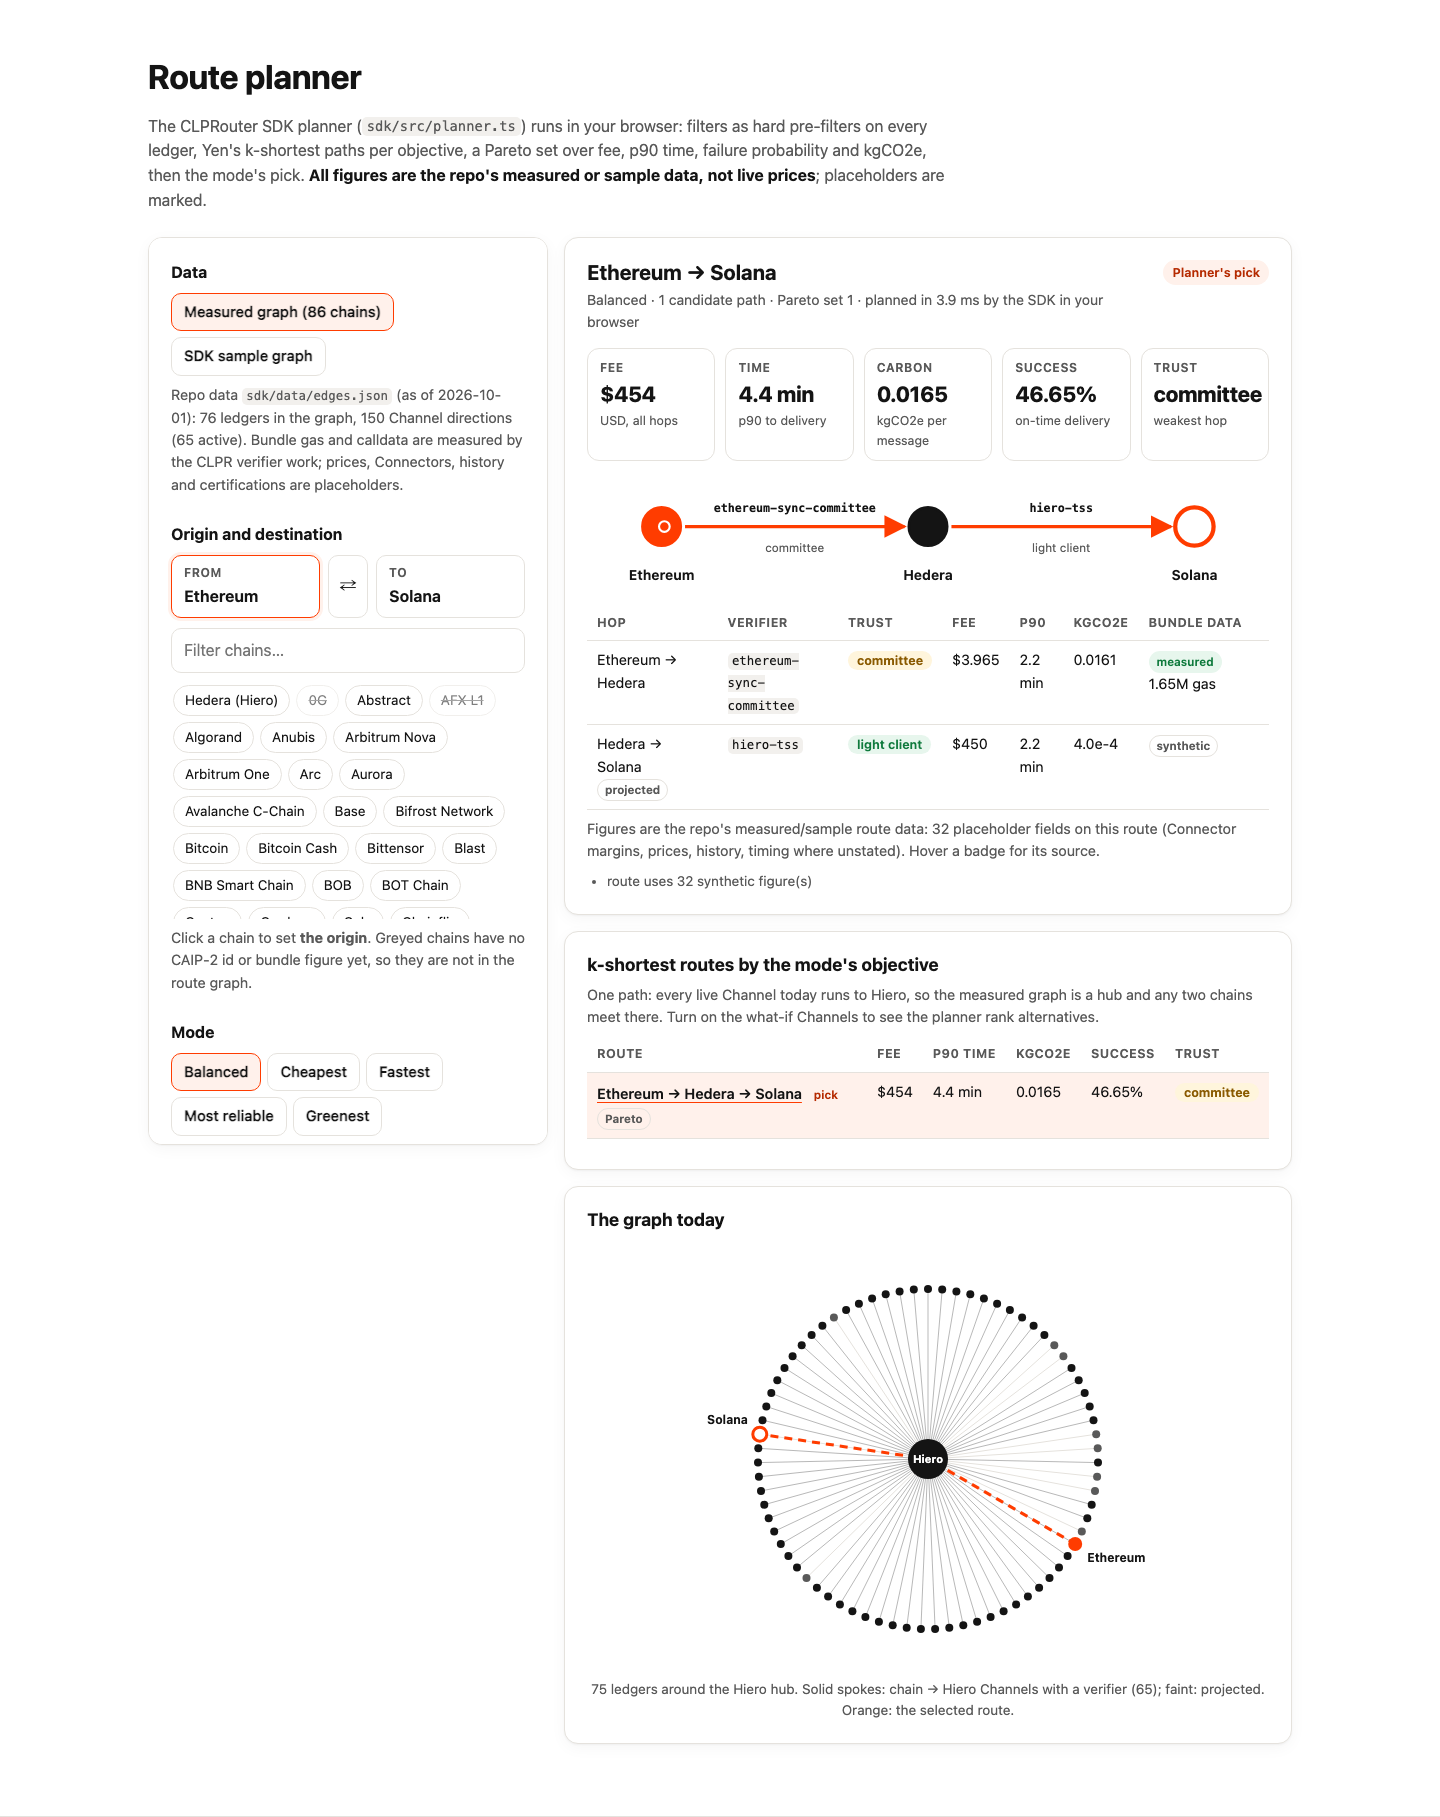
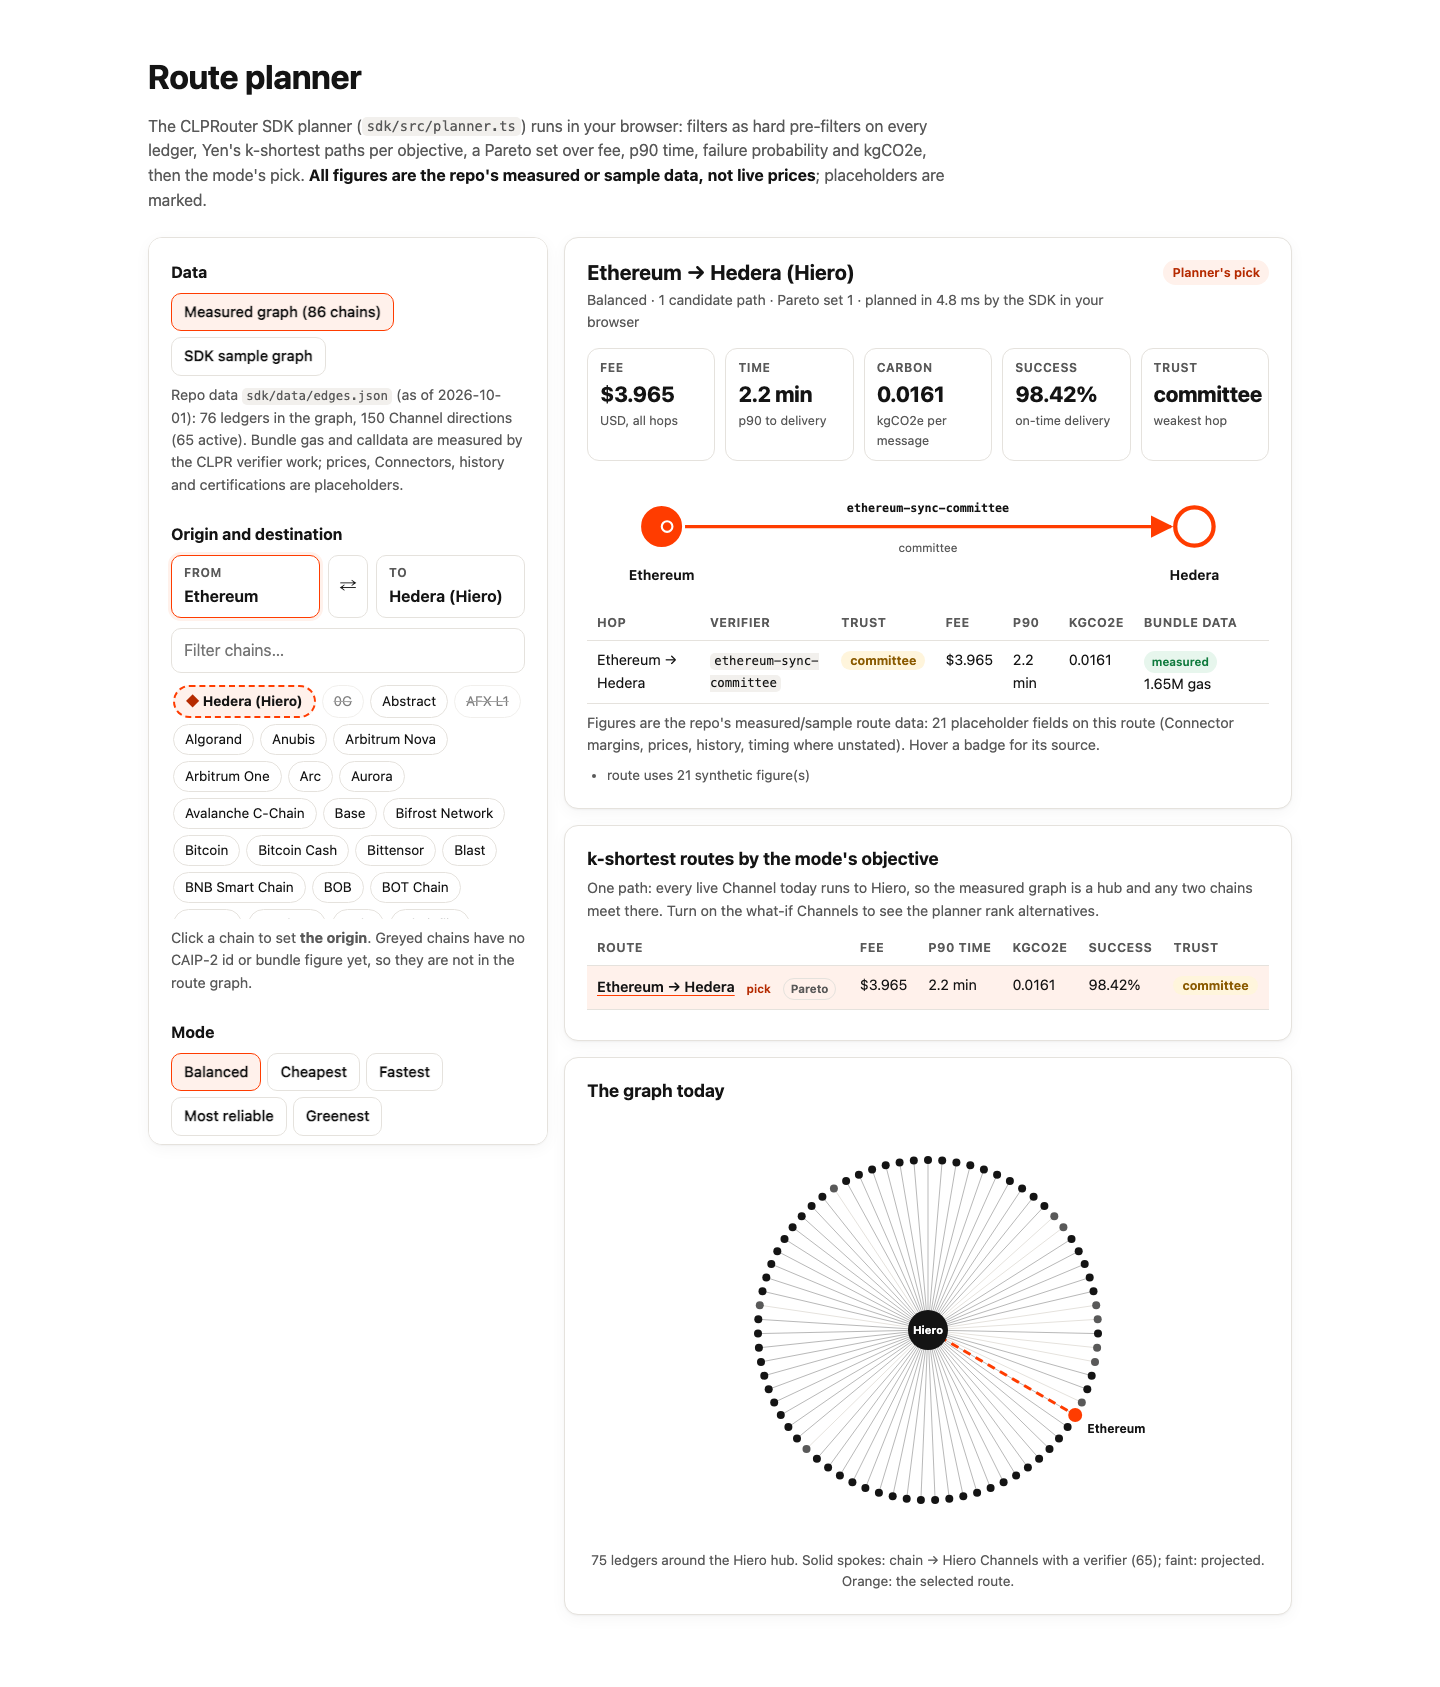
fix(site): read the v2 Channel and settle deployment; default route Ethereum → Hedera
- Explorer: the Channel and order-book panels read the v2 Channel (0x6446…c05d) and the v2 settle
  contracts (order book on Hedera, deposit and delivery on Sepolia, settle CLPR connector on both).
  The delivered route stays, labelled as delivered over the first Channel; the v1 settle contracts
  stay in the contracts table, marked superseded.
- Planner: defaults to Ethereum → Hedera, the measured route delivered on testnet. Ethereum → Solana
  is one click away as an example, still tagged projected.
- Build inlines the stylesheet into index.html, so first paint needs no extra request.
- Click-through checks the v2 panels, the superseded labels and the projected tag; screenshots refreshed.

Changed region(s): [[0.0938, 0.0308, 0.875, 0.6781], [0.4062, 0.6781, 0.875, 0.9555]]

diff --git a/site/src/explorer.ts b/site/src/explorer.ts
@@ -13,6 +13,7 @@ import {
 import { ORDER_BOOK_ABI, ROUTE_APP_ABI, ROUTER_ABI, SERVICE_ABI } from "./abi";
 import {
   CHANNEL_ID,
+  CHANNEL_V1_ID,
   CONTRACTS,
   NETS,
   ORDER_BOOK,
@@ -23,6 +24,7 @@ import {
   ROUTER,
   SEPOLIA_LEDGER_LABEL,
   SERVICE,
+  SETTLE_CLPR_CONNECTOR,
   SETTLE_DELIVERY,
   SETTLE_DEPOSIT,
   TEST_CONNECTOR,
@@ -71,9 +73,10 @@ export function initExplorer(root: HTMLElement): void {
   root.innerHTML = `
     <div class="ex-grid">
       <section class="card" aria-labelledby="ex-net-h"><h3 class="card-title" id="ex-net-h">Endpoints</h3><div id="ex-net"></div></section>
-      <section class="card" aria-labelledby="ex-ch-h"><h3 class="card-title" id="ex-ch-h">The Channel <code class="muted">${shortHex(CHANNEL_ID)}</code></h3><div id="ex-ch"></div></section>
-      <section class="card" aria-labelledby="ex-rt-h"><h3 class="card-title" id="ex-rt-h">Route <code class="muted">${shortHex(ROUTE_ID, 4)}</code>: Sepolia → Hedera</h3><div id="ex-rt"></div></section>
-      <section class="card" aria-labelledby="ex-ob-h"><h3 class="card-title" id="ex-ob-h">Settle on Hedera: order book</h3><div id="ex-ob"></div></section>
+      <section class="card" aria-labelledby="ex-ch-h"><h3 class="card-title" id="ex-ch-h">The Channel (v2) <code class="muted">${shortHex(CHANNEL_ID)}</code></h3><div id="ex-ch"></div></section>
+      <section class="card" aria-labelledby="ex-rt-h"><h3 class="card-title" id="ex-rt-h">Route <code class="muted">${shortHex(ROUTE_ID, 4)}</code>: Sepolia → Hedera</h3>
+        <p class="hint">Delivered over the first Channel <code>${shortHex(CHANNEL_V1_ID)}</code>, before the v2 Channel replaced it.</p><div id="ex-rt"></div></section>
+      <section class="card" aria-labelledby="ex-ob-h"><h3 class="card-title" id="ex-ob-h">Settle on Hedera: order book (v2)</h3><div id="ex-ob"></div></section>
     </div>
     <section class="card" aria-labelledby="ex-ct-h"><h3 class="card-title" id="ex-ct-h">Canonical contracts</h3>
       <p class="hint">Code read live with <code>eth_getCode</code>; where the deployment record has a runtime code hash, the hash is checked too.
@@ -136,7 +139,7 @@ async function loadChannel(): Promise<string> {
   const show = (r: PromiseSettledResult<string>, net: Net) =>
     r.status === "fulfilled" ? r.value : `<div class="side"><div class="side-h">${NETS[net].name}</div><p class="error">${esc((r.reason as Error).message)}</p></div>`;
   return `<div class="sides">${show(s, "sepolia")}${show(h, "hedera")}</div>
-    <p class="hint">One CLPR Channel joins exactly two ledgers. Read live with <code>getChannel</code> on the CLPR Service ${addrLink("sepolia", SERVICE)}.</p>`;
+    <p class="hint">One CLPR Channel joins exactly two ledgers. v2 replaced the first Channel <code>${shortHex(CHANNEL_V1_ID)}</code> (superseded) with a staged committee rotation; settle runs on v2. Read live with <code>getChannel</code> on the CLPR Service ${addrLink("sepolia", SERVICE)}.</p>`;
 }
 
 interface OriginRoute {
@@ -244,7 +247,7 @@ async function loadOrderBook(): Promise<string> {
     ${
       orders.length
         ? `<div class="table-wrap"><table><thead><tr><th scope="col">Order</th><th scope="col">Status</th><th scope="col">Owed on default</th><th scope="col">Opened</th></tr></thead><tbody>${orderRows}</tbody></table></div>`
-        : `<p class="hint"><strong>Orders: none yet.</strong> The book is deployed and a Connector is bonded; the first order opens once the Sepolia source is active and the settle CLPR connector is registered on Sepolia.</p>`
+        : `<p class="hint"><strong>Orders: none yet.</strong> The book is deployed and a Connector is bonded; the settle CLPR connector is registered on the v2 Channel on both networks, and the first order can open once the Sepolia source is active.</p>`
     }`;
 }
 
@@ -265,7 +268,7 @@ async function loadContracts(): Promise<string> {
         }
       };
       const [s, h] = await Promise.all([one("sepolia", c.sepolia), one("hedera", c.hedera)]);
-      return `<tr><th scope="row"><div>${esc(c.name)}</div><div class="muted small">${esc(c.group)}: ${esc(c.what)}</div></th>${s}${h}</tr>`;
+      return `<tr${c.superseded ? ' class="superseded"' : ""}><th scope="row"><div>${esc(c.name)}${c.superseded ? ` <span class="badge sm" title="superseded ${esc(c.superseded)}">superseded</span>` : ""}</div><div class="muted small">${esc(c.group)}: ${esc(c.what)}</div></th>${s}${h}</tr>`;
     }),
   );
   return `<div class="table-wrap"><table class="contracts"><thead><tr><th scope="col">Contract</th><th scope="col">Sepolia (Etherscan)</th><th scope="col">Hedera testnet (HashScan)</th></tr></thead><tbody>${cells.join("")}</tbody></table></div>`;
@@ -347,7 +350,7 @@ function summary(d: Decoded): string {
 
 async function loadEvents(): Promise<string> {
   const [sep, hr, hs, ho] = await Promise.allSettled([
-    sepoliaLogs([ROUTER.sepolia, SERVICE, SETTLE_DEPOSIT, SETTLE_DELIVERY]),
+    sepoliaLogs([ROUTER.sepolia, SERVICE, SETTLE_DEPOSIT, SETTLE_DELIVERY, SETTLE_CLPR_CONNECTOR]),
     hederaLogs(ROUTER.hedera, 25),
     hederaLogs(SERVICE, 50),
     hederaLogs(ORDER_BOOK, 25),

diff --git a/site/src/config.ts b/site/src/config.ts
@@ -53,6 +53,8 @@ export interface ContractRow {
   hedera?: Hex;
   /** Runtime code hash recorded at deployment, if any (same on both networks unless noted). */
   codeHash?: Hex;
+  /** Replaced by a later deployment; kept in the table for the record. */
+  superseded?: string;
 }
 
 export const SERVICE: Hex = "0xa6db474e3047c3d43b10a4ff7abad547d89982b9";
@@ -60,15 +62,20 @@ export const ROUTER: Record<Net, Hex> = {
   sepolia: "0x3Ec8a28f6AD20FE1070819f56B29be120700A653",
   hedera: "0xF398F961088af7aF74bff8fc409a535023913E5F",
 };
[1 lines of base64/hex data omitted]
+/** The live Channel (v2, staged committee rotation). */
[1 lines of base64/hex data omitted]
+/** The first Channel: the delivered route ran over it; superseded by v2. */
[1 lines of base64/hex data omitted]
 export const ROUTE_ID: Hex = "0x03c51452a41f4867d5bd8f5774baa110";
[2 lines of base64/hex data omitted]
 export const ROUTE_APP: Hex = "0xDbB0EbcBf8fa0cE4886fbe8Ae0C24C6D68B8bC69";
 
-export const ORDER_BOOK: Hex = "0xB7C875E6EB4a9D470BBccFecbA6256342676e895";
-export const SETTLE_DEPOSIT: Hex = "0x249f83524D0827840237e751981B804D99bB5bD6";
-export const SETTLE_DELIVERY: Hex = "0x5e7dbA624AFbcb13693BB17d9021Be16Da96cDB8";
+// Settle on Hedera v2 (on the v2 Channel).
+export const ORDER_BOOK: Hex = "0x28c14e4BAd929e27902149674CCe79b34E5b8B1f";
+export const SETTLE_DEPOSIT: Hex = "0x86ED95936E516742cC4d54657f66831775282875";
+export const SETTLE_DELIVERY: Hex = "0xf3c36ceDD119a0BfEdfA9F61C82A4F289046CB24";
+export const SETTLE_CLPR_CONNECTOR: Hex = "0x7DBAA36A39765668d7aB18AA08Db0a7Fe1Da7227";
 export const TEST_CONNECTOR: Hex = "0x316323692104293b58366e6Bc66a796B919108E7";
 export const SEPOLIA_LEDGER_LABEL = "eip155:11155111";
 
@@ -121,29 +128,62 @@ export const CONTRACTS: ContractRow[] = [
   {
     name: "SettleOrderBook",
     group: "Settle on Hedera",
-    what: "Connectors, bonds, orders and defaults, on Hedera",
+    what: "Connectors, bonds, orders and defaults, on Hedera (v2 Channel)",
     hedera: ORDER_BOOK,
[2 lines of base64/hex data omitted]
   },
   {
     name: "SettleDeposit",
     group: "Settle on Hedera",
-    what: "User pays the Connector; DEPOSIT message to Hedera",
+    what: "User pays the Connector; DEPOSIT message to Hedera (v2 Channel)",
     sepolia: SETTLE_DEPOSIT,
[2 lines of base64/hex data omitted]
   },
   {
     name: "SettleDelivery",
     group: "Settle on Hedera",
-    what: "Connector pays the recipient; DELIVERY message to Hedera",
+    what: "Connector pays the recipient; DELIVERY message to Hedera (v2 Channel)",
     sepolia: SETTLE_DELIVERY,
[2 lines of base64/hex data omitted]
   },
   {
     name: "SettleTestnetConnector",
     group: "Settle on Hedera",
-    what: "CLPR connector for the settle messages",
+    what: "CLPR connector for the settle messages, registered on the v2 Channel on both networks",
+    sepolia: SETTLE_CLPR_CONNECTOR,
+    hedera: SETTLE_CLPR_CONNECTOR,
[1 lines of base64/hex data omitted]
+  },
+  {
+    name: "SettleOrderBook (v1)",
+    group: "Settle on Hedera",
+    what: "First order book, on the first Channel",
+    hedera: "0xB7C875E6EB4a9D470BBccFecbA6256342676e895",
[1 lines of base64/hex data omitted]
+    superseded: "by the v2 order book",
+  },
+  {
+    name: "SettleDeposit (v1)",
+    group: "Settle on Hedera",
+    what: "First deposit contract, bound to the first Channel",
+    sepolia: "0x249f83524D0827840237e751981B804D99bB5bD6",
[1 lines of base64/hex data omitted]
+    superseded: "by the v2 deposit contract",
+  },
+  {
+    name: "SettleDelivery (v1)",
+    group: "Settle on Hedera",
+    what: "First delivery contract, bound to the first Channel",
+    sepolia: "0x5e7dbA624AFbcb13693BB17d9021Be16Da96cDB8",
[1 lines of base64/hex data omitted]
+    superseded: "by the v2 delivery contract",
+  },
+  {
+    name: "SettleTestnetConnector (v1)",
+    group: "Settle on Hedera",
+    what: "First settle CLPR connector, Hedera only",
     hedera: "0x187Ec9e724615974F5bdbf63eA4E181B9B2381F4",
[1 lines of base64/hex data omitted]
+    superseded: "by the v2 settle CLPR connector",
   },
 ];

diff --git a/site/src/planner.ts b/site/src/planner.ts
@@ -49,7 +49,8 @@ const WHATIF_SET = [
   "xrpl:0",
 ];
 const PRESETS: Array<{ label: string; origin: string; dest: string; mode: Mode; filters?: Filters; whatIf?: boolean }> = [
-  { label: "Ethereum → Solana", origin: "eip155:1", dest: "solana:5eykt4UsFv8P8NJdTREpY1vzqKqZKvdp", mode: "balanced" },
+  { label: "Ethereum → Hedera (measured)", origin: "eip155:1", dest: "hedera:mainnet", mode: "balanced" },
+  { label: "Ethereum → Solana (projected)", origin: "eip155:1", dest: "solana:5eykt4UsFv8P8NJdTREpY1vzqKqZKvdp", mode: "balanced" },
   { label: "Stellar → XRP Ledger, ISO 20022", origin: "stellar:pubnet", dest: "xrpl:0", mode: "fastest", filters: { iso20022: true } },
   { label: "Bitcoin → Stellar, greenest + Energy", origin: "bip122:000000000019d6689c085ae165831e93", dest: "stellar:pubnet", mode: "greenest", filters: { energy: true } },
   { label: "Base → Stellar, what-if Channels", origin: "eip155:8453", dest: "stellar:pubnet", mode: "cheapest", whatIf: true },
@@ -77,7 +78,7 @@ interface State {
 const state: State = {
   dataset: "measured",
   origin: "eip155:1",
-  dest: "solana:5eykt4UsFv8P8NJdTREpY1vzqKqZKvdp",
+  dest: HUB,
   picking: "origin",
   mode: "balanced",
   iso: false,

diff --git a/site/src/styles.css b/site/src/styles.css
@@ -297,3 +297,4 @@ input[type="checkbox"], input[type="radio"] { accent-color: var(--accent); width
 
 .foot { border-top: 1px solid var(--line); padding: 28px 0 40px; color: var(--muted); font-size: 0.88rem; }
 .foot-in p { margin: 4px 0; }
+.contracts tr.superseded th > div:first-child, .contracts tr.superseded td { opacity: 0.75; }
